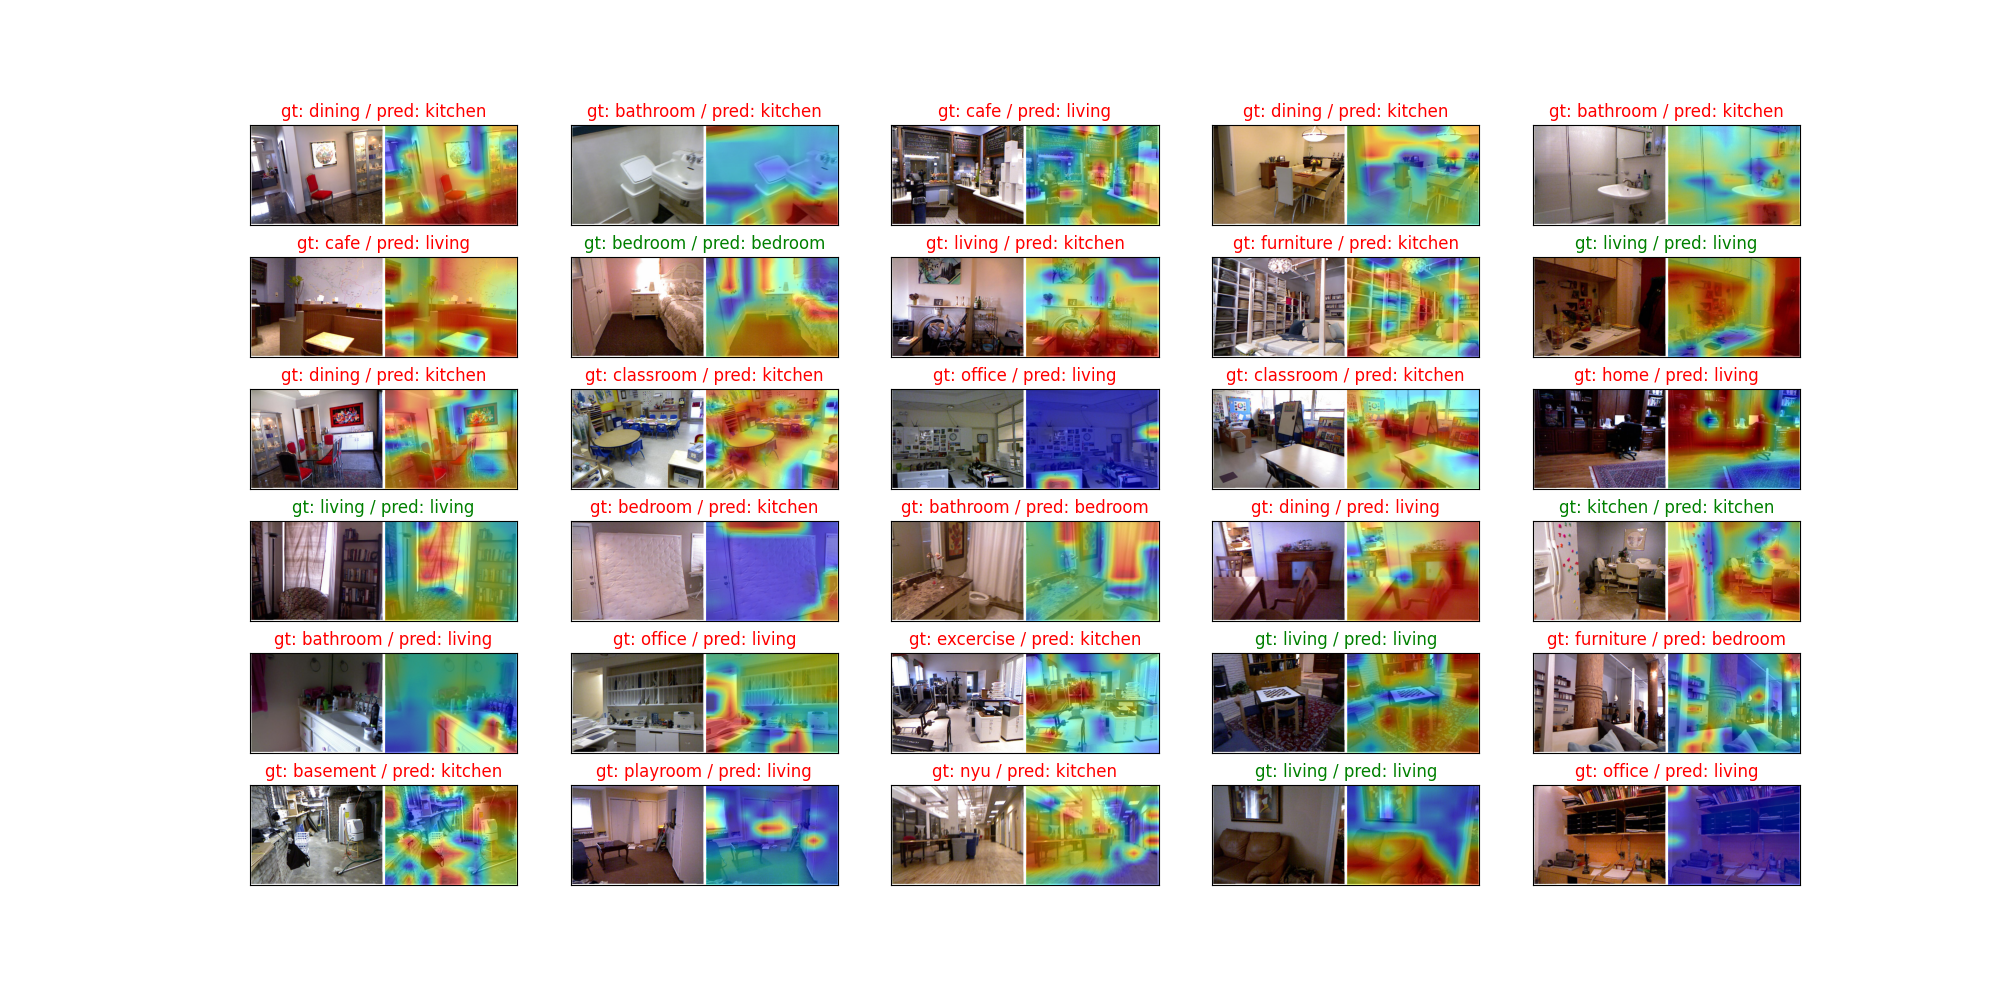
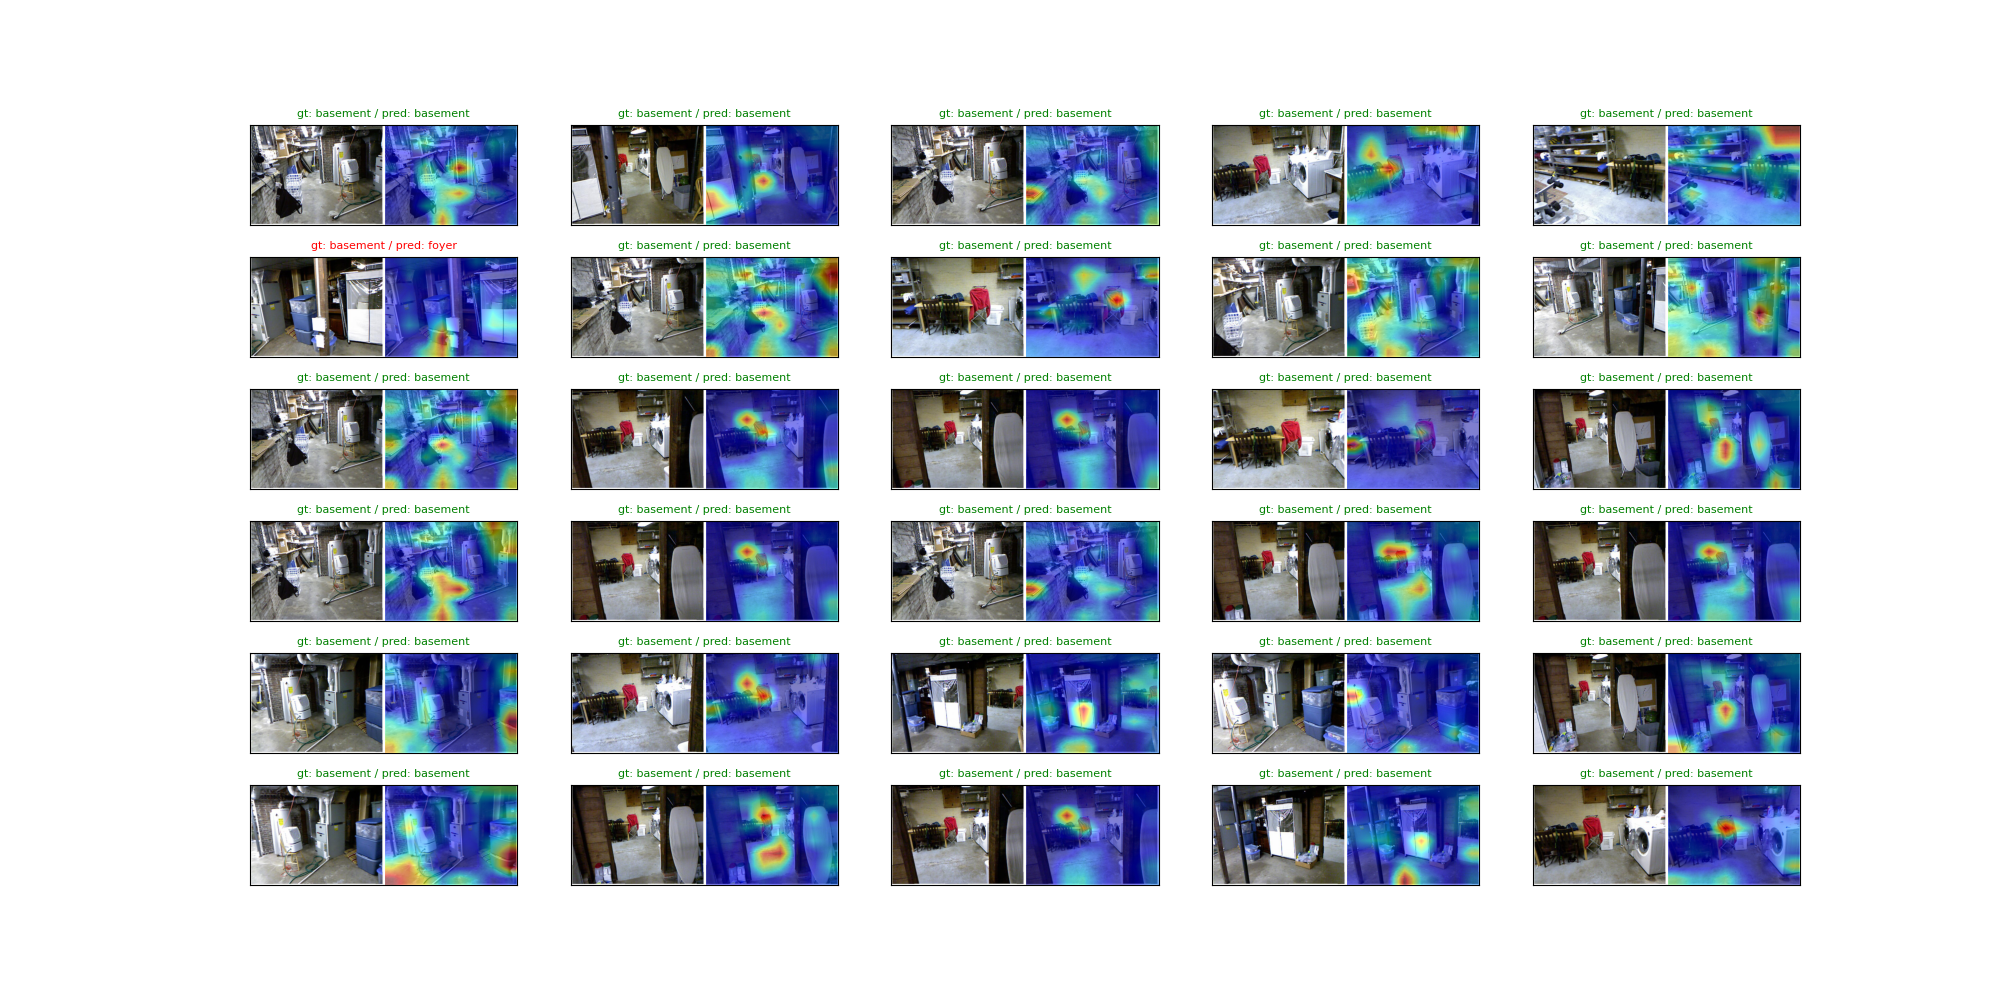
visualized

diff --git a/ViT_scratch/test.py b/ViT_scratch/test.py
@@ -55,7 +55,10 @@ def RGB_visualize_attention_NYU(model, base_path, label_mapping, image_size, out
 
         gt = id_to_label[str(label_ids[i])]
         pred = id_to_label[str(predictions[i].item())]
-        ax.set_title(f"gt: {gt} / pred: {pred}", color=("green" if gt == pred else "red"))
+        ax.set_title(
+            f"gt: {gt} / pred: {pred}", 
+            fontsize=8,
+            color=("green" if gt == pred else "red"))
     if output is not None:
         plt.savefig(output)
     plt.show()
@@ -65,49 +68,90 @@ def RGBD_visualize_attention_NYU(model, base_path, label_mapping, image_size, ou
     model.eval()
 
     image_paths = sorted(glob.glob(os.path.join(base_path, '*', '*.jpg')))
+    depth_paths = sorted(glob.glob(os.path.join(base_path, '*', '*.png')))
     labels, _ = getlabels_NYU(image_paths)
 
-    num_images = 30
-    indices = torch.randperm(len(image_paths))[:num_images]
+    num_images = 12
+    indices = torch.randperm(len(image_paths))[:num_images] ## if random is not desired comment out
+    
     raw_images = [np.asarray(Image.open(image_paths[i]).convert("RGB")) for i in indices]
+    raw_depths = [np.asarray(Image.open(depth_paths[i])) for i in indices]
+    
     label_ids = [labels[i] for i in indices]
     id_to_label = label_mapping 
     # print(label_mapping)
 
     test_transform = transforms.Compose([
-        transforms.ToTensor(),
         transforms.Resize((image_size, image_size)),
+        transforms.ToTensor(),
         transforms.Normalize((0.5, 0.5, 0.5), (0.5, 0.5, 0.5))
     ])
+    depth_transform = transforms.Compose([
+        transforms.Resize((image_size, image_size)),
+        transforms.ToTensor(),
+        transforms.Normalize((0.5,), (0.5,))
+    ])
+
     images = torch.stack([test_transform(Image.fromarray(img)) for img in raw_images]).to(device)
+    depths = torch.stack([depth_transform(Image.fromarray(dpt)) for dpt in raw_depths]).to(device)
 
     img_h, img_w = raw_images[0].shape[:2]
 
     model = model.to(device)
-    logits, attention_maps = model(images, attentions_choice=True)
+    logits, attention_maps_img, attention_maps_dpt = model(images, depths, attentions_choice=True)
     predictions = torch.argmax(logits, dim=1)
-    attention_maps = torch.cat(attention_maps, dim=1)
-    attention_maps = attention_maps[:, :, 0, 1:].mean(dim=1)
-    size = int(math.sqrt(attention_maps.size(-1)))
-    attention_maps = attention_maps.view(-1, size, size)
-    attention_maps = F.interpolate(attention_maps.unsqueeze(1), size=(img_h, img_w), mode='bilinear', align_corners=False).squeeze(1)  
+
+    def process_attention(attention_maps):
+        attention_maps = torch.cat(attention_maps, dim=1)
+        attention_maps = attention_maps[:, :, 0, 1:].mean(dim=1)
+        size = int(math.sqrt(attention_maps.size(-1)))
+        attention_maps = attention_maps.view(-1, size, size)
+        attention_maps = F.interpolate(attention_maps.unsqueeze(1), size=(img_h, img_w), mode='bilinear', align_corners=False).squeeze(1)
+        return attention_maps
+    
+    attention_maps_img = process_attention(attention_maps_img)
+    attention_maps_dpt = process_attention(attention_maps_dpt)
 
     fig = plt.figure(figsize=(20, 10))
-    mask = np.concatenate([np.ones((img_h, img_w)), np.zeros((img_h, img_w))], axis=1)
+    mask = np.concatenate([
+        np.ones((img_h, img_w)),        # 1: RGB (非表示)
+        np.zeros((img_h, img_w)),       # 2: RGB (表示)
+        np.ones((img_h, img_w)),        # 3: Depth (非表示)
+        np.zeros((img_h, img_w)),       # 4: Depth (表示)
+        
+    ], axis=1)
+
     for i in range(num_images):
-        ax = fig.add_subplot(6, 5, i+1, xticks=[], yticks=[])
-        img = np.concatenate((raw_images[i], raw_images[i]), axis=1)
+        # RGB
+        ax = fig.add_subplot(int(num_images/3), 3, i+1, xticks=[], yticks=[])
+        raw_depths[i] = np.stack([raw_depths[i]]*3, axis=2)
+        img = np.concatenate((raw_images[i], raw_images[i], raw_depths[i], raw_depths[i]), axis=1)
         ax.imshow(img)
 
-        extended_attention_map = np.concatenate((np.zeros((img_h, img_w)), attention_maps[i].cpu().detach().numpy()), axis=1)
+        extended_attention_map = np.concatenate([
+            np.zeros((img_h, img_w)),                           # 1: RGB (非表示)
+            attention_maps_img[i].cpu().detach().numpy(),       # 2: RGB (表示)
+            np.zeros((img_h, img_w)),                           # 3: Depth (表示)   
+            attention_maps_dpt[i].cpu().detach().numpy(),       # 4: Depth (非表示)     
+        ], axis=1)
         extended_attention_map = np.ma.masked_where(mask==1, extended_attention_map)
+
         ax.imshow(extended_attention_map, alpha=0.5, cmap='jet')
 
         gt = id_to_label[str(label_ids[i])]
         pred = id_to_label[str(predictions[i].item())]
-        ax.set_title(f"gt: {gt} / pred: {pred}", color=("green" if gt == pred else "red"))
+        ax.set_title(
+            f"gt: {gt} / pred: {pred}", 
+            fontsize=8,
+            # pad=10,
+            color=("green" if gt == pred else "red"))
+    
+    plt.tight_layout()
+    # plt.subplots_adjust(hspace=0.1)
+    
     if output is not None:
         plt.savefig(output)
+    
     plt.show()
 
 def main():
@@ -115,10 +159,24 @@ def main():
     device = "cuda" if torch.cuda.is_available() else "cpu"
     base_path = r'..\data\nyu_data\nyu2'
     experiment_name = "vit-with-10-epochs"
-    config, model, _, _, _, label_mapping = load_experiment(experiment_name)
-    image_size = config['image_size']
+    map_location = "cuda" if torch.cuda.is_available() else "cpu"
 
-    RGB_visualize_attention_NYU(model, base_path, label_mapping, image_size, "sharefusion_attention.png", device=device)
+    config, model, _, _, _, label_mapping = load_experiment(
+        experiment_name,
+        checkpoint_name='RGB_10_model_final.pt',
+        depth=False,
+        map_location=map_location
+        )
+    image_size = config['image_size']
+    # RGB_visualize_attention_NYU(model, base_path, label_mapping, image_size, "attention.png", device=device)
+
+    config, model, _, _, _, label_mapping = load_experiment(
+        experiment_name,
+        depth=True,
+        map_location=map_location
+        )
+    image_size = config['image_size']
+    RGBD_visualize_attention_NYU(model, base_path, label_mapping, image_size, "sharefusion_attention.png", device=device)
 
 
 if __name__ == "__main__":

diff --git a/ViT_scratch/utils.py b/ViT_scratch/utils.py
@@ -6,7 +6,7 @@ from torch.nn import functional as F
 import torchvision
 import torchvision.transforms as transforms
 
-from vit import ViTForClassfication
+from vit import ViTForClassfication, LateFusion
 
 
 def save_experiment(experiment_name, config, model, train_losses, test_losses, accuracies, label_mapping=None, base_dir="experiments"):
@@ -44,7 +44,7 @@ def save_checkpoint(experiment_name, model, epoch, base_dir="experiments"):
     torch.save(model.state_dict(), cpfile)
 
 
-def load_experiment(experiment_name, checkpoint_name="model_final.pt", base_dir="experiments"):
+def load_experiment(experiment_name, checkpoint_name="model_final.pt", base_dir="experiments", depth=False, map_location=None):
     outdir = os.path.join(base_dir, experiment_name)
     # Load the config
     configfile = os.path.join(outdir, 'config.json')
@@ -65,8 +65,13 @@ def load_experiment(experiment_name, checkpoint_name="model_final.pt", base_dir=
 
     # Load the model
     model = ViTForClassfication(config)
+    if depth:
+        model = LateFusion(config)
     cpfile = os.path.join(outdir, checkpoint_name)
-    model.load_state_dict(torch.load(cpfile))
+    if map_location is not None:
+        model.load_state_dict(torch.load(cpfile, map_location=map_location, weights_only=False))
+    else:
+        model.load_state_dict(torch.load(cpfile), weights_only=False)
     return config, model, train_losses, test_losses, accuracies, label_mapping
 
 
